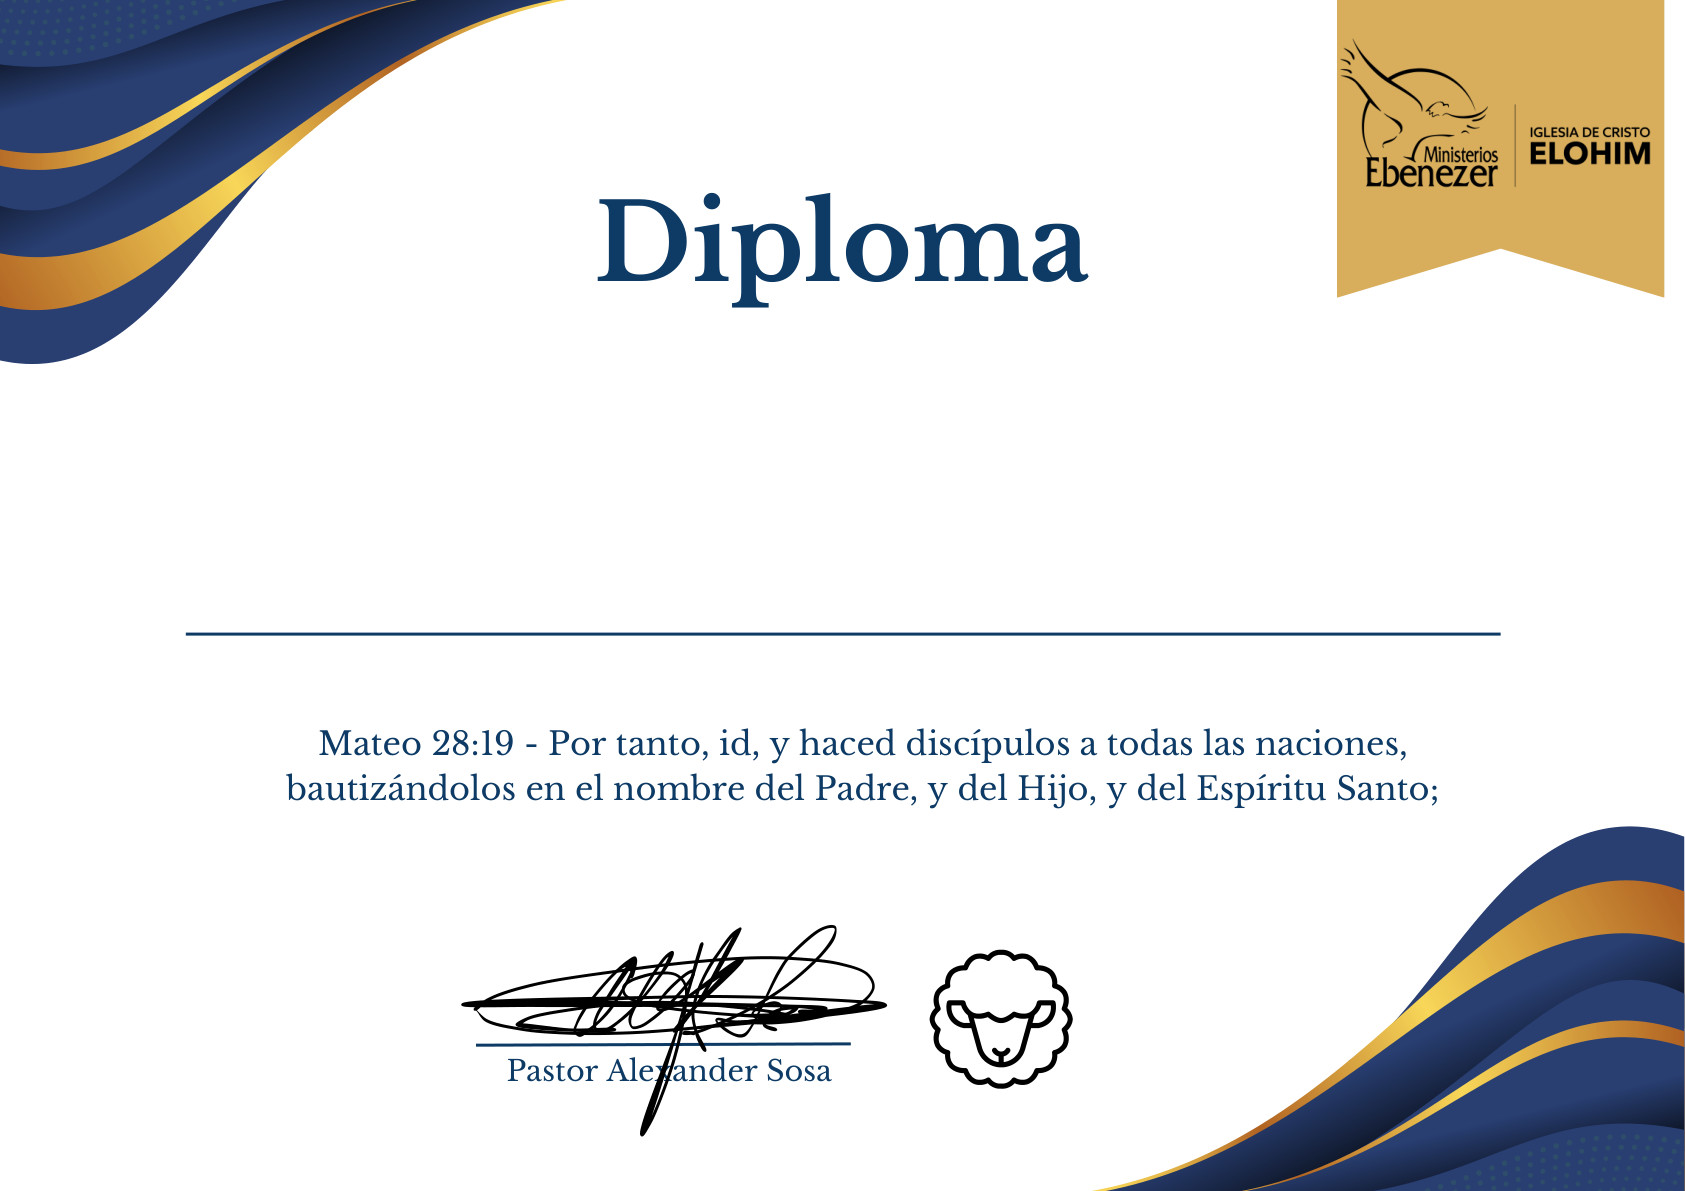
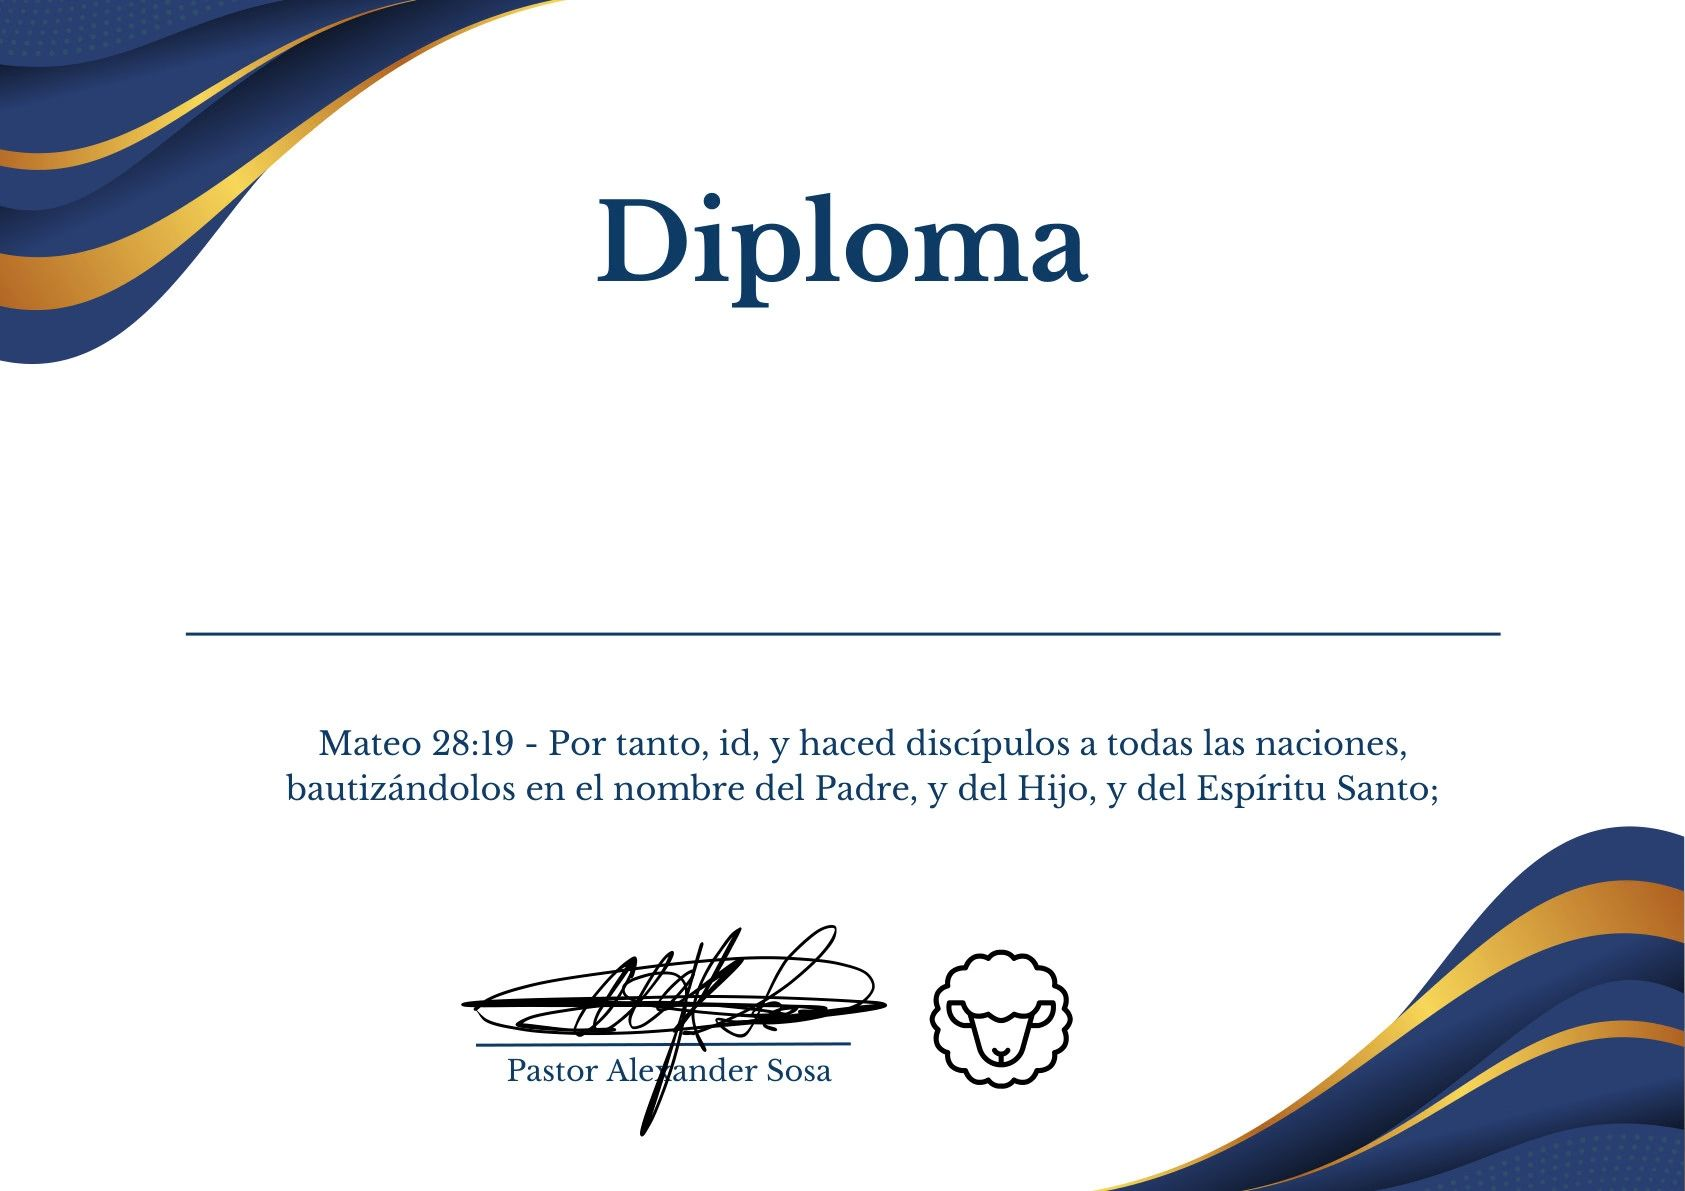
Actualizar plantilla Diploma.jpg y bajar el nombre 0.2 cm.

diff --git a/backend/cursos/views.py b/backend/cursos/views.py
@@ -1378,8 +1378,8 @@ class _DiplomaImageFactory:
             alumno_nombre, self.name_font_path, self.name_font_size, max_name_w
         )
         name_size = getattr(name_font, 'size', self.name_font_size)
-        # PDF: nombre en height*0.54 - 0.5cm (antes -2cm; subido 1.5cm). Convertir a top-origin.
-        nombre_y_from_bottom = self.height * 0.54 - (0.5 * (72 / 2.54) * self.scale)
+        # PDF: nombre en height*0.54 - 0.7cm (subido 1.5cm del original -2cm, luego +0.2cm abajo).
+        nombre_y_from_bottom = self.height * 0.54 - (0.7 * (72 / 2.54) * self.scale)
         nombre_y = self.height - nombre_y_from_bottom - name_size
         draw.text(((self.width - name_w) / 2, nombre_y), alumno_nombre, font=name_font, fill=self.color)
 
